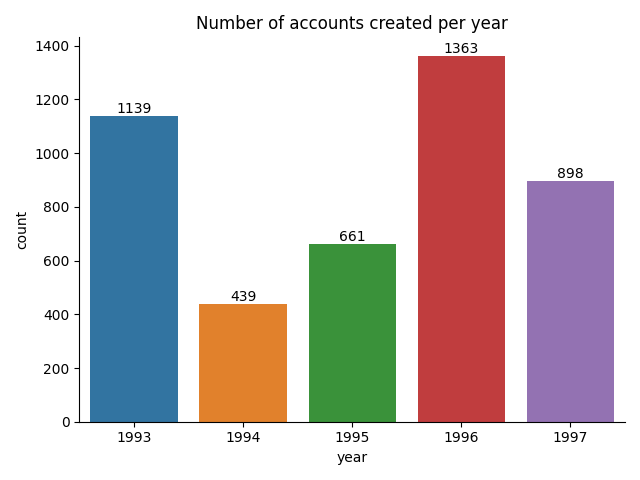
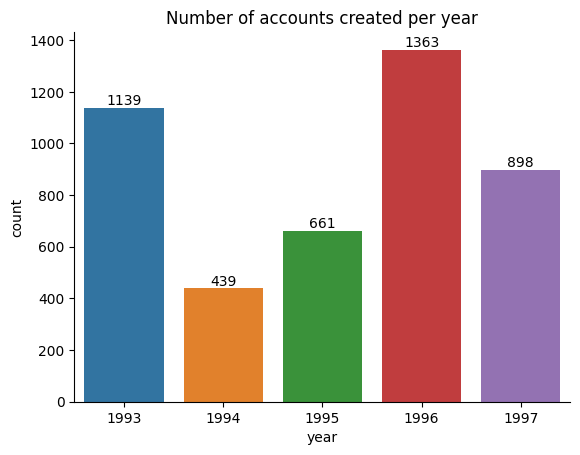
Added 'corr_accounts_per_district_with_district_table' plot

Changed region(s): [[0.0, 0.0308, 0.9931, 0.9846]]

diff --git a/src/data-analysis/account.py b/src/data-analysis/account.py
@@ -10,8 +10,7 @@ def plot_issuance_frequency_categories_count(df):
     plt.title("Issuance frequency categories count")
     plt.xlabel('frequency of issuance of statements')
     sns.despine(ax=ax)
-    plt.tight_layout()
-    plt.savefig('../../analysis_plots/issuance_frequency_categories_count.png')
+    plt.savefig('../../analysis_plots/issuance_frequency_categories_count.png', bbox_inches='tight')
     plt.clf()
 
 def plot_accounts_created_per_year(df):
@@ -20,8 +19,7 @@ def plot_accounts_created_per_year(df):
     plt.title('Number of accounts created per year')
     plt.xlabel('year')
     sns.despine(ax=ax)
-    plt.tight_layout()
-    plt.savefig('../../analysis_plots/accounts_created_per_year.png')
+    plt.savefig('../../analysis_plots/accounts_created_per_year.png', bbox_inches='tight')
     plt.clf()
 
 def plot_top_10_districts_with_most_accounts(df, con):
@@ -51,8 +49,19 @@ def plot_top_10_districts_with_most_accounts(df, con):
 
     sns.despine(fig=fig)
     fig.suptitle('Top 10 districts with most number of accounts')
-    plt.tight_layout()
-    plt.savefig('../../analysis_plots/top10_districts_most_accounts.png')
+    plt.savefig('../../analysis_plots/top10_districts_most_accounts.png', bbox_inches='tight')
+    plt.clf()
+
+def plot_corr_accounts_per_district_with_district_table(df, con):
+    dist = pd.read_sql_query('SELECT * FROM district;', con, index_col='id')
+    corr = dist.corrwith(df['districtId'].value_counts(), numeric_only=True)
+    ax = plt.bar(corr.index, corr.values)
+    plt.xticks(rotation=90)
+    plt.grid(axis='y')
+    plt.title('Correlation between the number of accounts per district and the district table attributes')
+    plt.xlabel('district table attributes')
+    plt.ylabel('correlation percentage')
+    plt.savefig('../../analysis_plots/corr_accounts_per_district_with_district_table.png', bbox_inches='tight')
     plt.clf()
 
 def main():
@@ -62,6 +71,7 @@ def main():
     plot_issuance_frequency_categories_count(df)
     plot_accounts_created_per_year(df)
     plot_top_10_districts_with_most_accounts(df, con)
+    plot_corr_accounts_per_district_with_district_table(df, con)
 
 if __name__ == "__main__":
     main()
